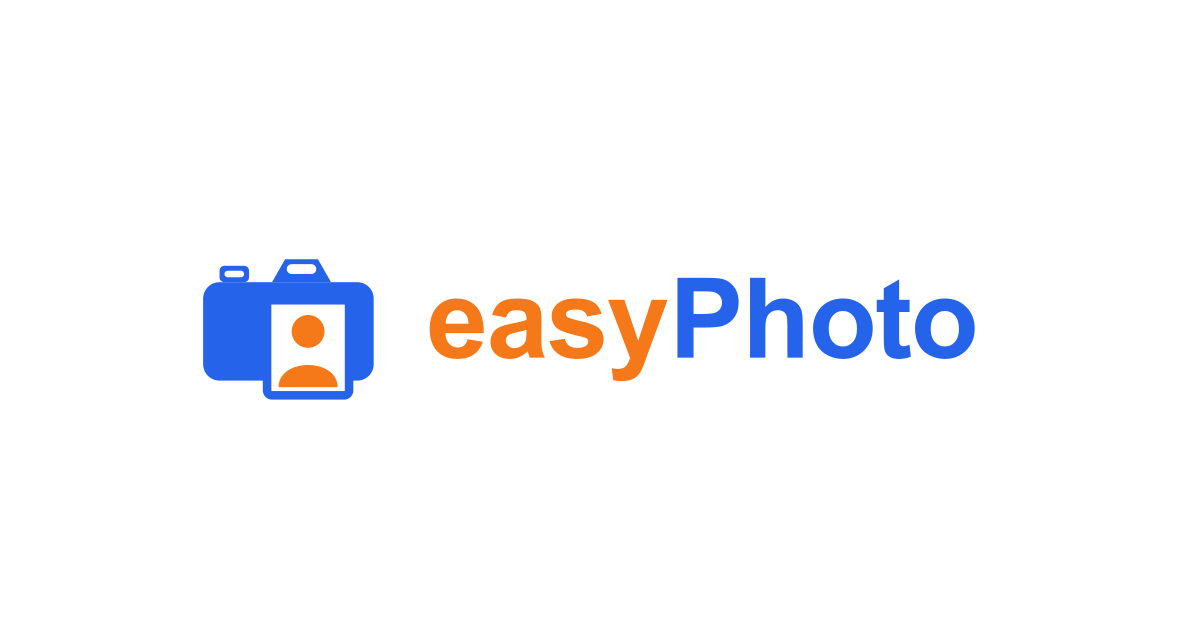
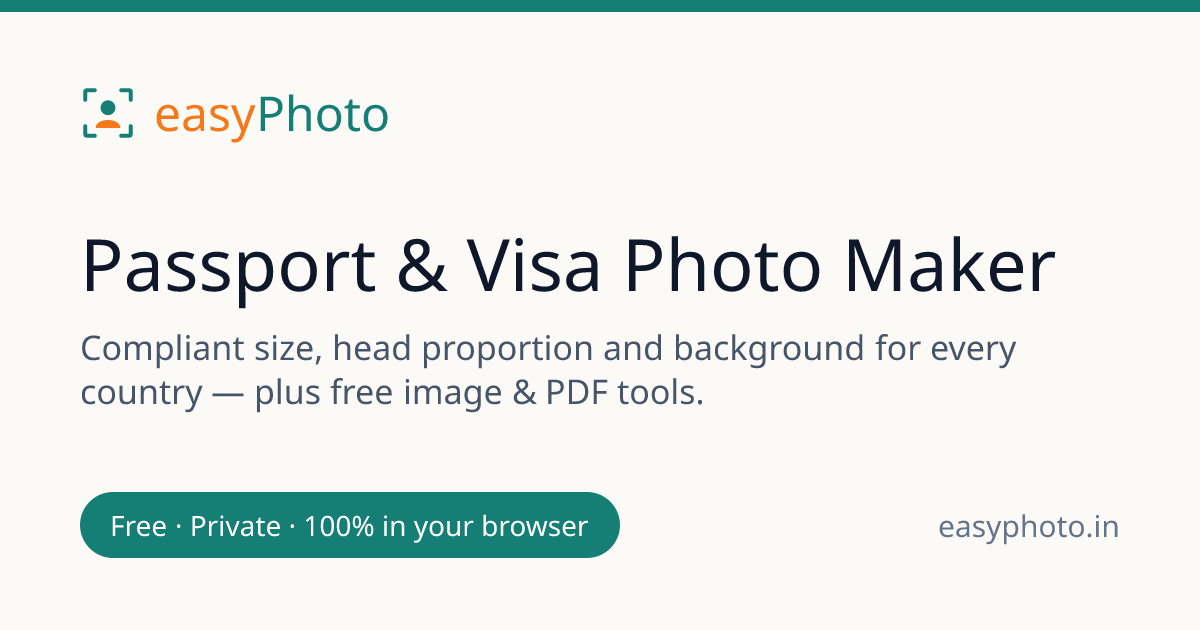
feat(brand/seo): consistent brand chrome + rebranded social cards
- Fix off-brand manifest theme_color (#2563eb blue → brand teal #157F75)
  and align the layout mobile theme-color to match (was old cream). Adds
  PWA polish (id, scope, lang, dir, categories).
- OG social-share cards (lib/og.tsx, used by every page): add the
  crop-mark logo, flatten the gradient to a clean near-white + teal
  accent bar — every share now carries the rebrand.
- Sync static og.png fallback to the new branded card.
- Refresh BRAND-ASSETS.md (crop-mark logo, palette, theme-color, OG).

Build 344 pages, tsc clean, sacred device matrix 0 changes.

diff --git a/lib/og.tsx b/lib/og.tsx
@@ -16,6 +16,10 @@ export const OG_CONTENT_TYPE = "image/png";
 const BRAND_TEAL = "#157F75";
 const BRAND_ORANGE = "#F57819";
 
+// The crop-mark logo mark, inline as a data URI (satori renders <img> reliably).
+const LOGO_SVG = `<svg xmlns="http://www.w3.org/2000/svg" viewBox="0 0 64 64"><g fill="none" stroke="${BRAND_TEAL}" stroke-width="4.5" stroke-linecap="round" stroke-linejoin="round"><path d="M6 17 V8 Q6 6 8 6 H17"/><path d="M47 6 H56 Q58 6 58 8 V17"/><path d="M58 47 V56 Q58 58 56 58 H47"/><path d="M17 58 H8 Q6 58 6 56 V47"/></g><circle cx="32" cy="26" r="8.5" fill="${BRAND_TEAL}"/><path d="M18 49 C18 37 46 37 46 49 Z" fill="${BRAND_ORANGE}"/></svg>`;
+const LOGO_SRC = `data:image/svg+xml,${encodeURIComponent(LOGO_SVG)}`;
+
 export interface OgInput {
   title: string;
   subtitle?: string;
@@ -36,16 +40,20 @@ export function ogImage({
           display: "flex",
           flexDirection: "column",
           justifyContent: "space-between",
-          background:
-            "linear-gradient(135deg, #ffffff 0%, #eef4f0 55%, #fdf3ea 100%)",
-          padding: "72px 80px",
+          background: "#FBFAF7",
+          borderTop: `12px solid ${BRAND_TEAL}`,
+          padding: "68px 80px 72px",
           fontFamily: "sans-serif",
         }}
       >
-        {/* Wordmark */}
-        <div style={{ display: "flex", alignItems: "center", fontSize: 48, fontWeight: 800 }}>
-          <span style={{ color: BRAND_ORANGE }}>easy</span>
-          <span style={{ color: BRAND_TEAL }}>Photo</span>
+        {/* Logo mark + wordmark */}
+        <div style={{ display: "flex", alignItems: "center", gap: 18 }}>
+          {/* eslint-disable-next-line @next/next/no-img-element */}
+          <img src={LOGO_SRC} width={56} height={56} alt="" />
+          <div style={{ display: "flex", alignItems: "center", fontSize: 48, fontWeight: 800 }}>
+            <span style={{ color: BRAND_ORANGE }}>easy</span>
+            <span style={{ color: BRAND_TEAL }}>Photo</span>
+          </div>
         </div>
 
         {/* Headline */}

diff --git a/app/layout.tsx b/app/layout.tsx
@@ -90,7 +90,8 @@ export const metadata: Metadata = {
 };
 
 export const viewport: Viewport = {
-  themeColor: "#faf6ee",
+  // Brand teal — gives easyPhoto a branded mobile browser/PWA chrome.
+  themeColor: "#157F75",
 };
 
 export default function RootLayout({

diff --git a/public/BRAND-ASSETS.md b/public/BRAND-ASSETS.md
@@ -1,8 +1,14 @@
 # Brand assets
 
 The logo lives as editable vector source:
-- `public/icon.svg` — the camera + ID-photo mark (also `components/site/LogoMark.tsx`)
+- `public/icon.svg` — the crop-mark logo (corner crop marks framing a head; the
+  precision/scan motif). Keep in sync with `components/site/LogoMark.tsx`.
 - `public/logo.svg` — full logo (mark + "easyPhoto" wordmark)
+
+Brand palette: document teal `#157F75` (primary), stamp orange `#F57819` (CTA).
+The mobile/PWA `theme_color` is the brand teal (`app/layout.tsx` viewport +
+`public/site.webmanifest`). Social-share OG cards are generated from
+`lib/og.tsx` (logo + teal accent), with `public/og.png` as the static fallback.
 
 ## Generated raster assets
 